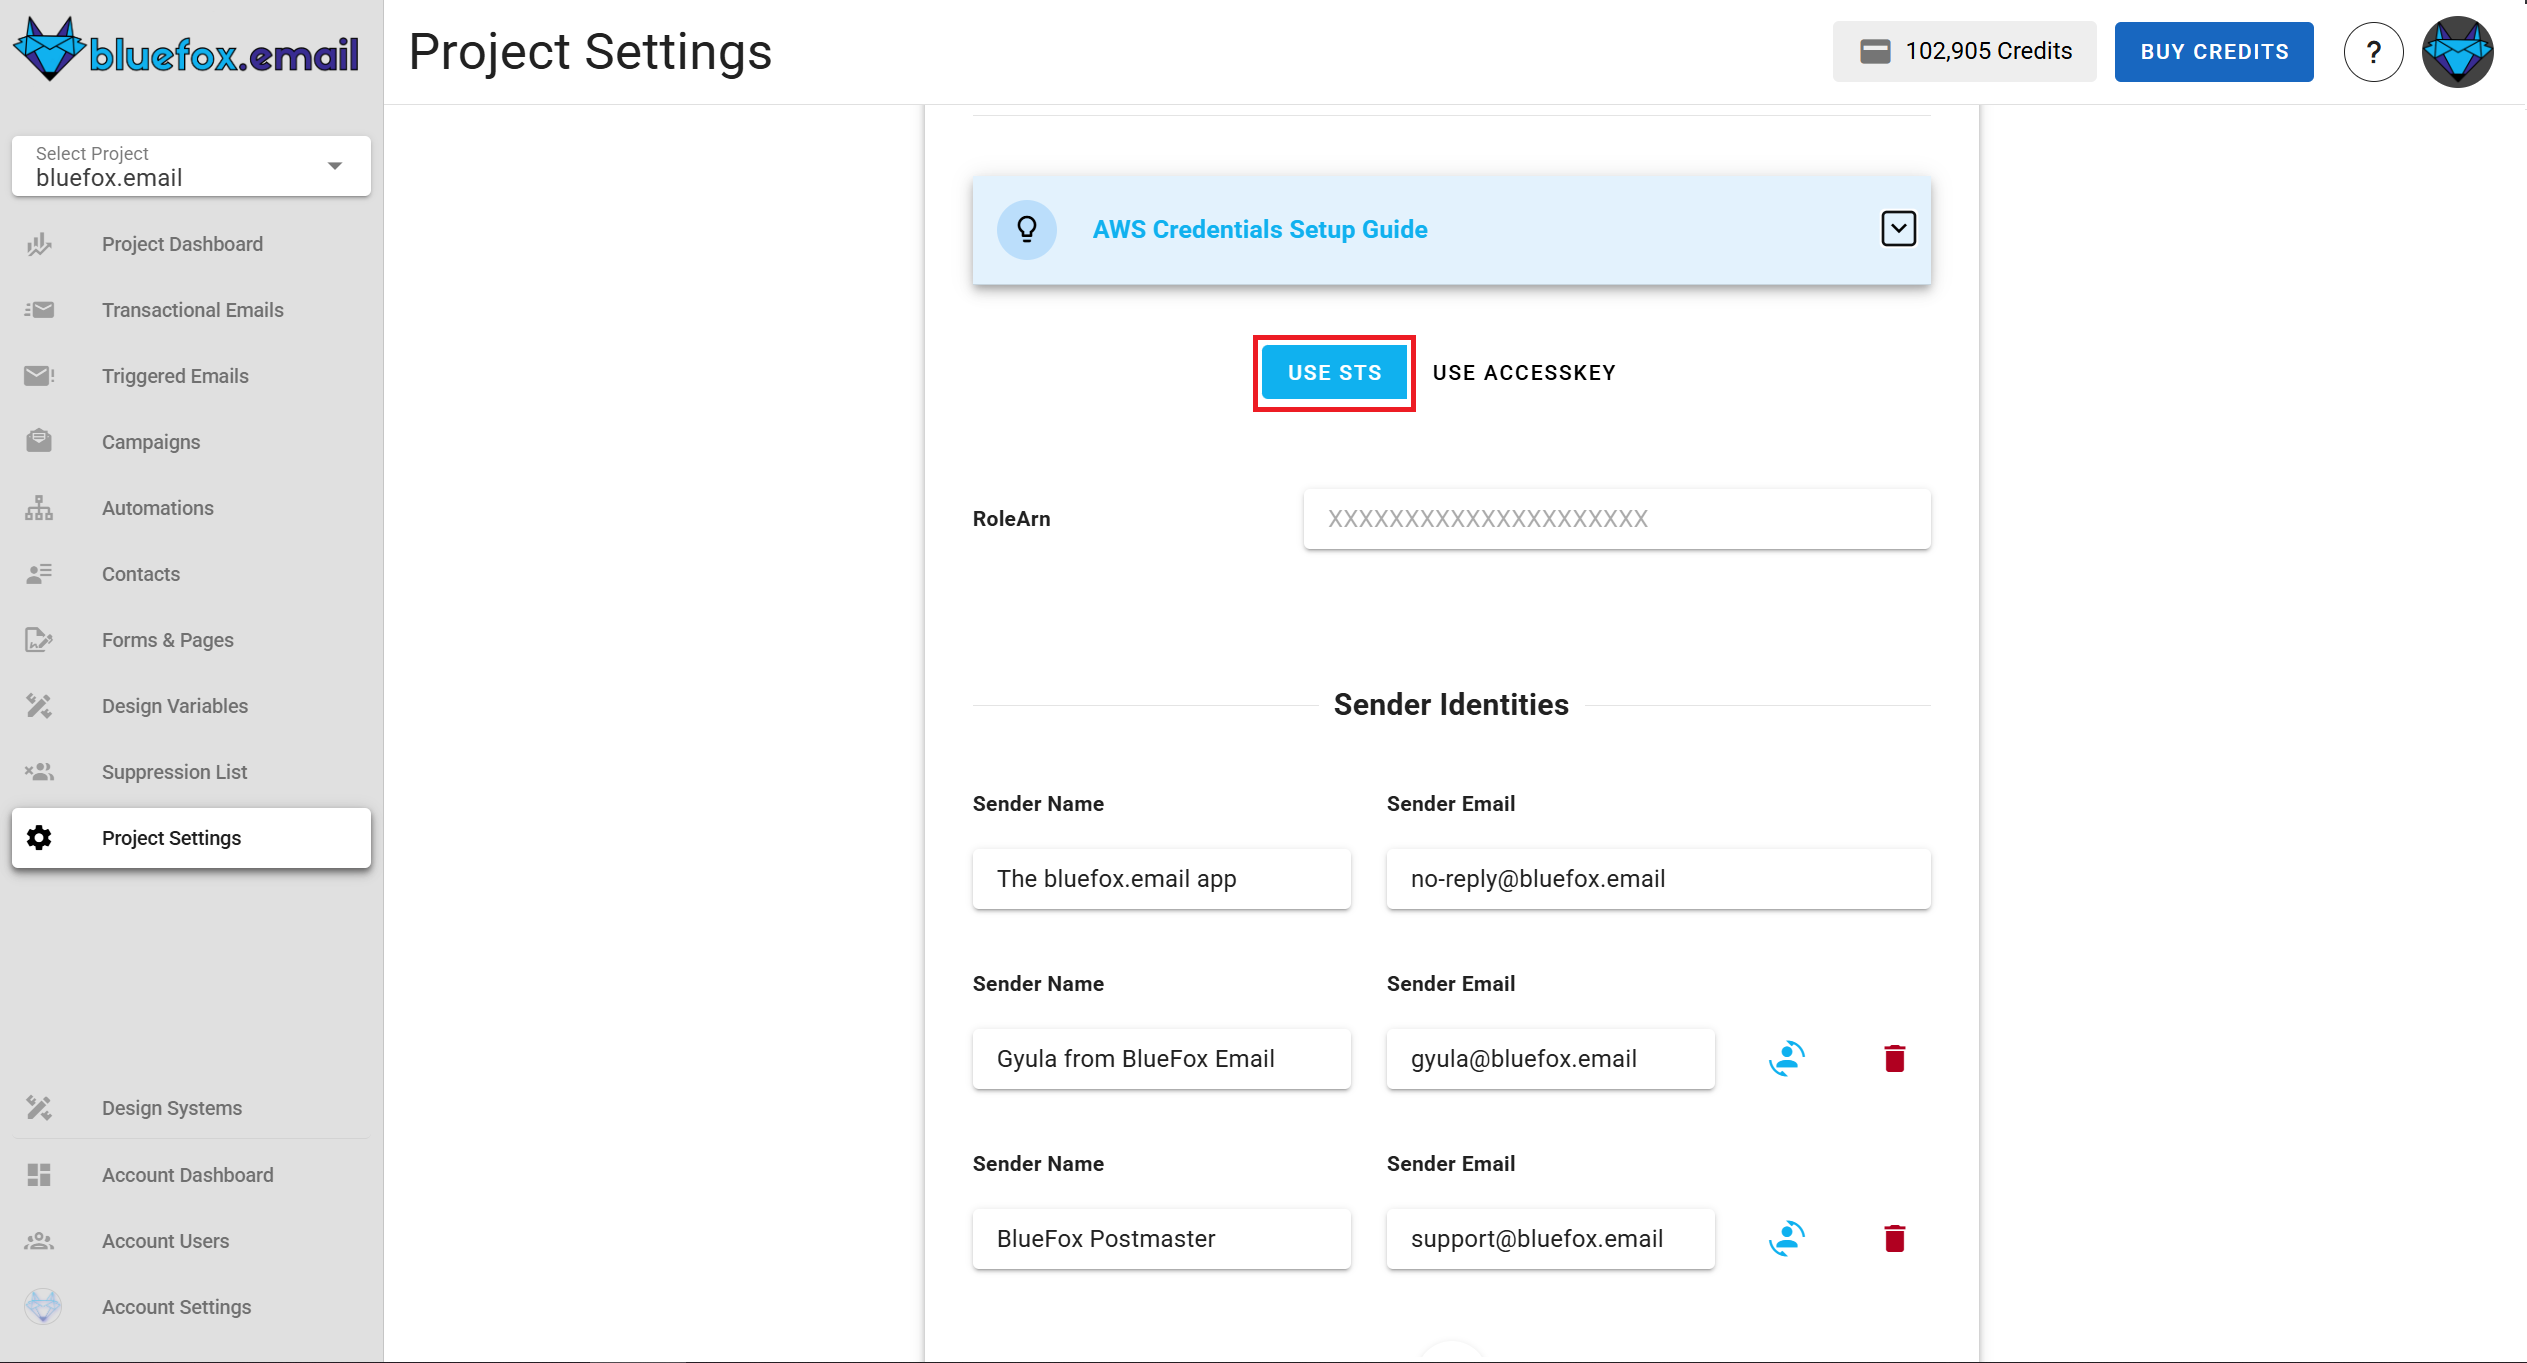
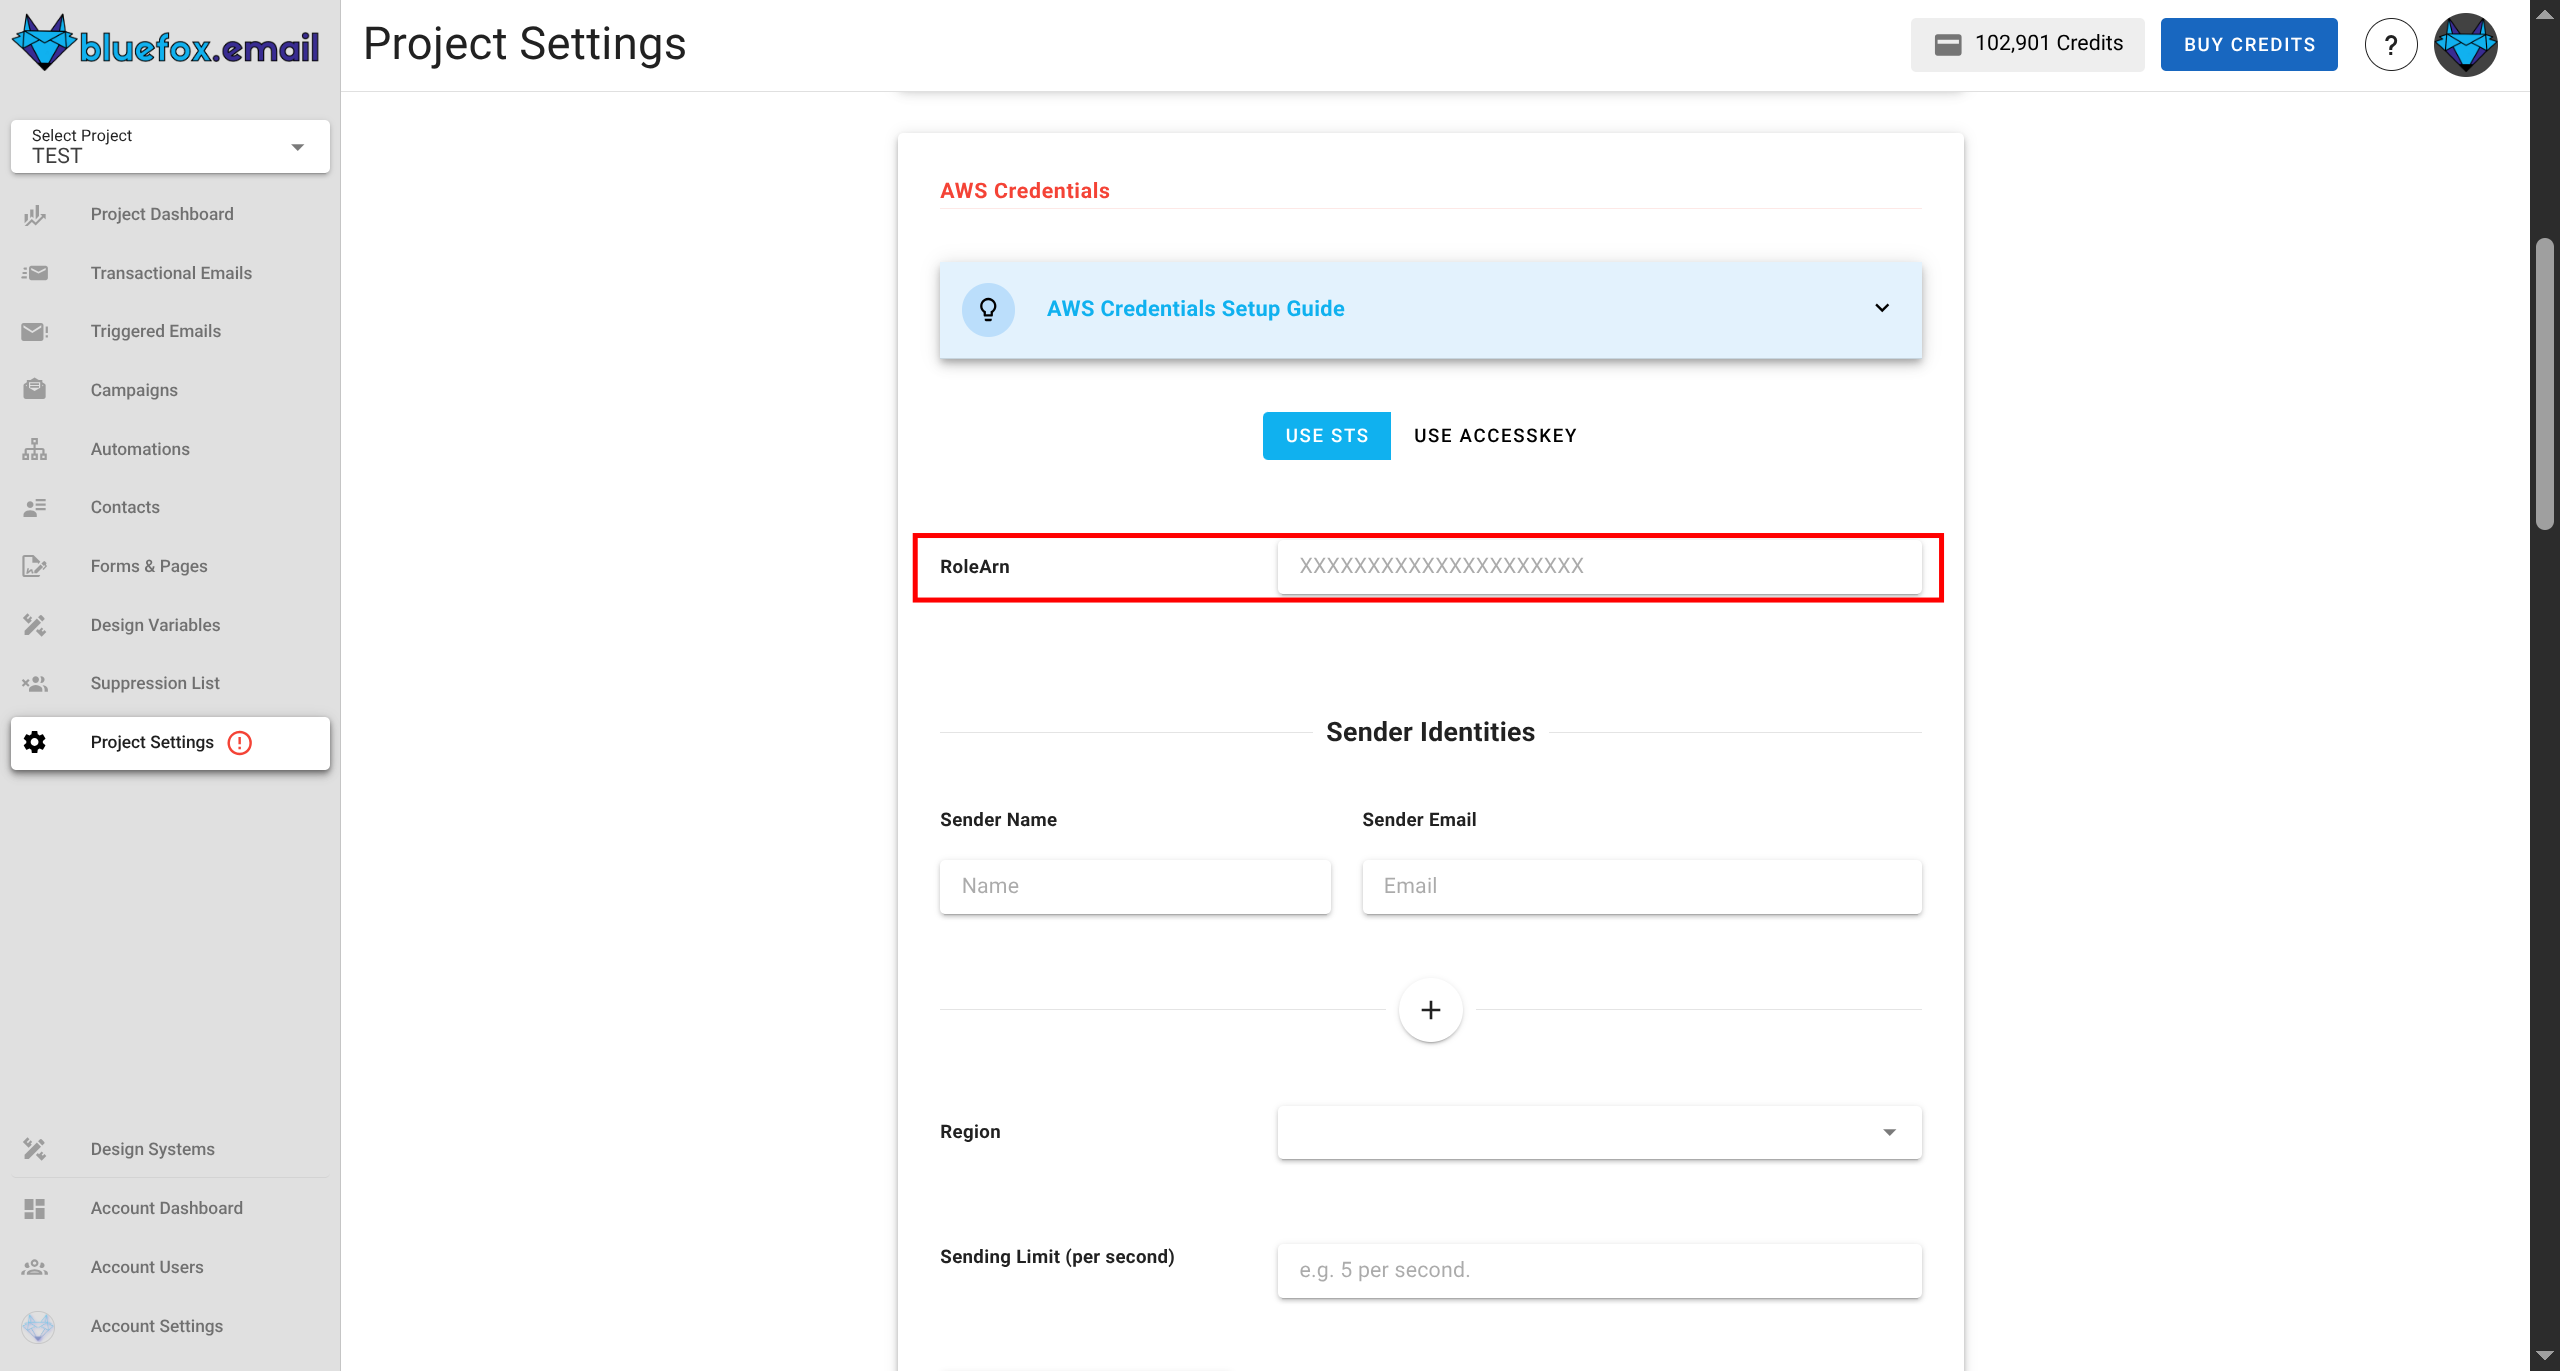
Update project settings documentation and images for improved clarity and usability

diff --git a/docs/projects/settings.md b/docs/projects/settings.md
@@ -76,11 +76,25 @@ We store your credentials encrypted, so even in the very unlikely event of data 
 
 ### Use STS ( Security Token Service )
 
-STS is the most recommended way to connect your AWS account. Just click the `Use STS` button and follow the steps given in `AWS Credentials Step Guide` and you are good to go. 
+STS (Security Token Service) is AWS's secure method for temporary, limited-privilege credentials. It's more secure than long-lived access keys because credentials automatically expire and don't need to be stored in your application.
+
+Here's how to set it up:
+
+1. Click the `Use STS` button and expand the instructions banner
+2. Follow the step-by-step guide to create and configure your AWS role
+3. Copy the generated `RoleArn`.
+4. Paste the `RoleArn` into the input field here:
 
 ![A screenshot of a project settings AWS credentials section.](./project-settings-aws-sts.webp)
 
-After you have done all the steps put in your `RoleArn` into the input field. STS uses your Role ARN to securely generate temporary credentials, removing the need to handle static access keys directly
+5. Fill up rest of the input fields and once done hit `Save AWS Credentials`.
+
+Once configured, bluefox.email will use your Role ARN to securely generate temporary credentials on demand, eliminating the security risks of storing permanent access keys.
+
+:::warning Important Notes
+- You cannot use both STS and regular AWS credentials simultaneously. If you want to switch from STS to standard AWS credentials, you must first remove your STS configuration.
+- You cannot remove AWS credentials (either STS or standard) if you have scheduled campaigns or running automations that depend on them.
+:::
 
 ### Managing Sender Identities
 
@@ -131,21 +145,17 @@ The **reply-to email address** field allows you to specify where replies to your
 
 To know the [bounce and complaint numbers](/docs/projects/dashboard) of your emails, set up our webhooks in AWS SNS.
 
-To set up the hooks, press the setup buttons:
+To set up the hooks, expand the banner:
 
 ![A screenshot of a project settings AWS bounce and complaints section. (Not set up.)](./project-settings-aws-bounce-complaints.webp)
 
-... and follow the instructions. After finishing, you should see this:
+... and follow the instructions. After finishing, click on `Run Test` button and if everything is good you should see this:
 
 ![A screenshot of a project settings AWS bounce and complaints section. (Already set up.)](./project-settings-aws-bounce-complaints-done.webp)
 
 The **Identity Name** column displays the identities configured in your project. The green tick marks in the **Bounce Hook** and **Complaint Hook** columns indicate that the webhooks have been successfully set up for each identity. If any webhook fails to configure correctly, you can revisit the setup and re-test.
 
 Additionally, the red **Reset Bounce Webhook** and **Reset Complaint Webhook** buttons allow you to reset and reconfigure the webhooks if needed. This ensures that your setup remains flexible and can be updated whenever required. Once all green ticks are visible, the webhooks are fully operational, confirming that bounce and complaint events will be tracked effectively.
-
-::: tip Upcoming Feature
-We plan to introduce processes for bounces and complaints to automatically keep your lists clean. Currently, you need to analyze those numbers and manually keep your lists clean.
-:::
 
 ## API Keys
 
